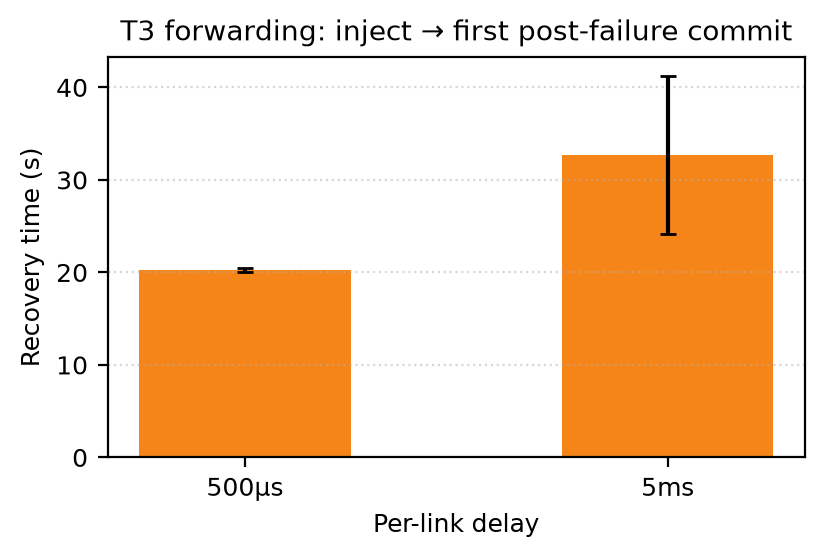
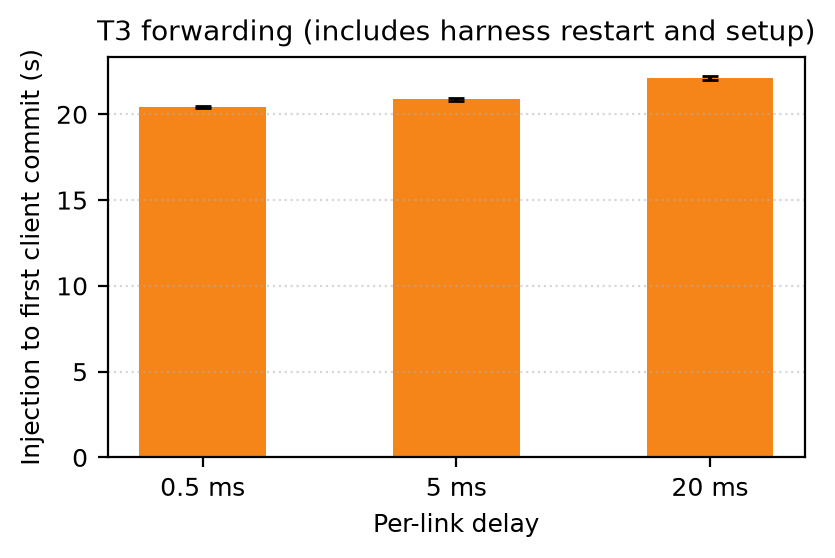
new plots

diff --git a/docs/final-report/gen_figures.py b/docs/final-report/gen_figures.py
@@ -8,13 +8,15 @@ import matplotlib.pyplot as plt
 import numpy as np
 
 ROOT = Path(__file__).resolve().parents[2]
-DATA = ROOT / "experiments" / "viz" / "public" / "data" / "dataset.jsonl"
+DATA = ROOT / "results" / "campaigns" / "full-20261014-hb500-noprevote" / "merged" / "dataset.jsonl"
 OUT = Path(__file__).resolve().parent / "figures"
 OUT.mkdir(parents=True, exist_ok=True)
 
 rows = [json.loads(l) for l in DATA.open(encoding="utf-8") if l.strip()]
-# Prefer 500us and 5ms; skip broken 20ms except for narrative
-DELAYS = ["500µs", "5ms"]
+assert len(rows) == 900 and len({r["run_id"] for r in rows}) == 900
+assert all(r["trial_ok"] and r["heartbeat"] == "500ms" for r in rows)
+DELAYS = ["500µs", "5ms", "20ms"]
+DELAY_LABELS = {"500µs": "0.5 ms", "5ms": "5 ms", "20ms": "20 ms"}
 TOPOS = ["T0", "T1", "T2", "T3", "T4"]
 MODES = ["direct", "forwarding"]
 
@@ -39,7 +41,7 @@ def mean_sd(xs):
     if not xs:
         return 0.0, 0.0
     m = float(np.mean(xs))
-    sd = float(np.std(xs, ddof=0)) if len(xs) > 1 else 0.0
+    sd = float(np.std(xs, ddof=1)) if len(xs) > 1 else 0.0
     return m, sd
 
 
@@ -57,7 +59,7 @@ plt.rcParams.update(
 )
 
 # --- Figure 1: RQ1 throughput ---
-fig, axes = plt.subplots(1, 2, figsize=(7.2, 2.8), sharey=True)
+fig, axes = plt.subplots(1, 3, figsize=(7.2, 3.0), sharey=True, layout="constrained")
 width = 0.35
 x = np.arange(len(TOPOS))
 colors = {"direct": "#4C78A8", "forwarding": "#F58518"}
@@ -82,20 +84,20 @@ for ax, delay in zip(axes, DELAYS):
         )
     ax.set_xticks(x)
     ax.set_xticklabels(TOPOS)
-    ax.set_title(f"Per-link delay {delay}")
+    ax.set_title(f"Per-link delay {DELAY_LABELS[delay]}")
     ax.set_xlabel("Topology")
     ax.grid(axis="y", linestyle=":", alpha=0.5)
-    ax.set_ylim(0, 115)
+    ax.set_ylim(0, 150)
 
-axes[0].set_ylabel("Commit throughput (entries/s)")
-axes[1].legend(frameon=False, loc="upper right")
-fig.suptitle("Observe-window commit throughput (mean ± SD)", y=1.02)
+axes[0].set_ylabel("Successful client commits/s")
+fig.legend(*axes[0].get_legend_handles_labels(), loc="outside lower center", ncol=2, frameon=False)
+fig.suptitle("Throughput from injection to observation end (mean ± sample SD)")
 fig.savefig(OUT / "rq1-throughput.pdf")
 fig.savefig(OUT / "rq1-throughput.png")
 plt.close(fig)
 
 # --- Figure 2: RQ2 latency ---
-fig, axes = plt.subplots(1, 2, figsize=(7.2, 2.8), sharey=False)
+fig, axes = plt.subplots(1, 3, figsize=(7.2, 3.0), sharey=False, layout="constrained")
 for ax, delay in zip(axes, DELAYS):
     for i, mode in enumerate(MODES):
         means, sds = [], []
@@ -116,13 +118,17 @@ for ax, delay in zip(axes, DELAYS):
         )
     ax.set_xticks(x)
     ax.set_xticklabels(TOPOS)
-    ax.set_title(f"Per-link delay {delay}")
+    ax.set_title(f"Per-link delay {DELAY_LABELS[delay]}")
     ax.set_xlabel("Topology")
     ax.grid(axis="y", linestyle=":", alpha=0.5)
 
 axes[0].set_ylabel("Median commit latency (ms)")
-axes[1].legend(frameon=False, loc="upper left")
-fig.suptitle("Client-observed median commit latency (mean ± SD over runs)", y=1.02)
+for ax in axes:
+    ax.set_ylim(bottom=0)
+    ax.annotate("—", (TOPOS.index("T3") - width / 2, 0), xytext=(0, 3),
+                textcoords="offset points", ha="center", fontsize=9)
+fig.legend(*axes[0].get_legend_handles_labels(), loc="outside lower center", ncol=2, frameon=False)
+fig.suptitle("Successful-request median latency (mean ± sample SD over runs)")
 fig.savefig(OUT / "rq2-latency.pdf")
 fig.savefig(OUT / "rq2-latency.png")
 plt.close(fig)
@@ -137,17 +143,39 @@ for delay in DELAYS:
     # convert to seconds
     xs = [v / 1000.0 for v in xs]
     m, s = mean_sd(xs)
-    labels.append(delay)
+    labels.append(DELAY_LABELS[delay])
     vals.append(m)
     errs.append(s)
 ax.bar(labels, vals, yerr=errs, color=colors["forwarding"], capsize=3, width=0.5)
-ax.set_ylabel("Recovery time (s)")
+ax.set_ylabel("Injection to first client commit (s)")
 ax.set_xlabel("Per-link delay")
-ax.set_title("T3 forwarding: inject → first post-failure commit")
+ax.set_title("T3 forwarding (includes harness restart and setup)")
 ax.grid(axis="y", linestyle=":", alpha=0.5)
 fig.savefig(OUT / "rq1-t3-recovery.pdf")
 fig.savefig(OUT / "rq1-t3-recovery.png")
 plt.close(fig)
+
+# Keep the report's numeric latency table tied to the same campaign as the plots.
+table = [
+    r"\begin{table}[H]",
+    r"  \centering",
+    r"  \caption{Mean of per-run median commit latencies (ms), with the number of runs having successful observe requests. Each condition has 30 validated trials.}",
+    r"  \label{tab:latency}",
+    r"  \footnotesize",
+    r"  \begin{tabular}{llrrrr}",
+    r"    \toprule",
+    r"    Topology & Delay (ms) & Direct & $n$ & Forwarding & $n$ \\",
+    r"    \midrule",
+]
+for topo in TOPOS:
+    for delay in DELAYS:
+        cells = []
+        for mode in MODES:
+            values = series(topo, mode, delay, "latency_median_ms")
+            cells.extend([f"{np.mean(values):.2f}" if values else "--", str(len(values))])
+        table.append("    " + " & ".join([topo, DELAY_LABELS[delay].split()[0], *cells]) + r" \\")
+table.extend([r"    \bottomrule", r"  \end{tabular}", r"\end{table}"])
+(OUT.parent / "latency-table.tex").write_text("\n".join(table) + "\n", encoding="utf-8")
 
 print("Wrote figures to", OUT, f"({len(rows)} runs)")
 for p in sorted(OUT.glob("*")):
